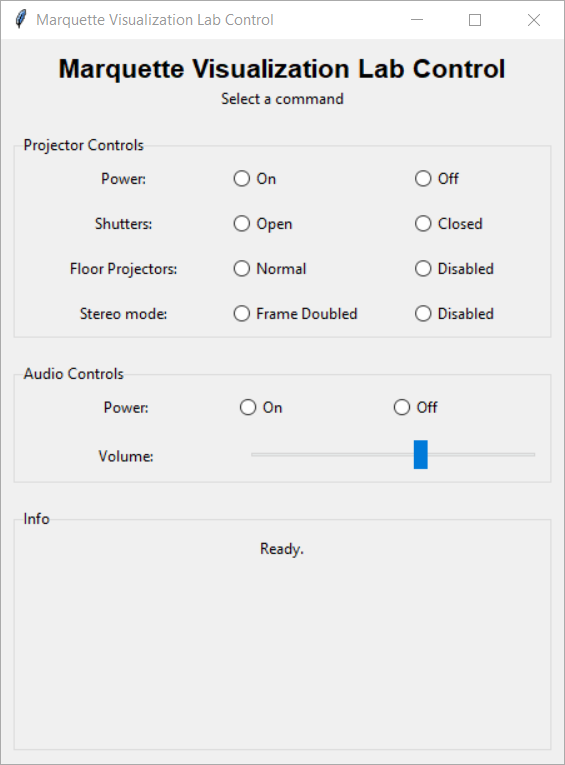
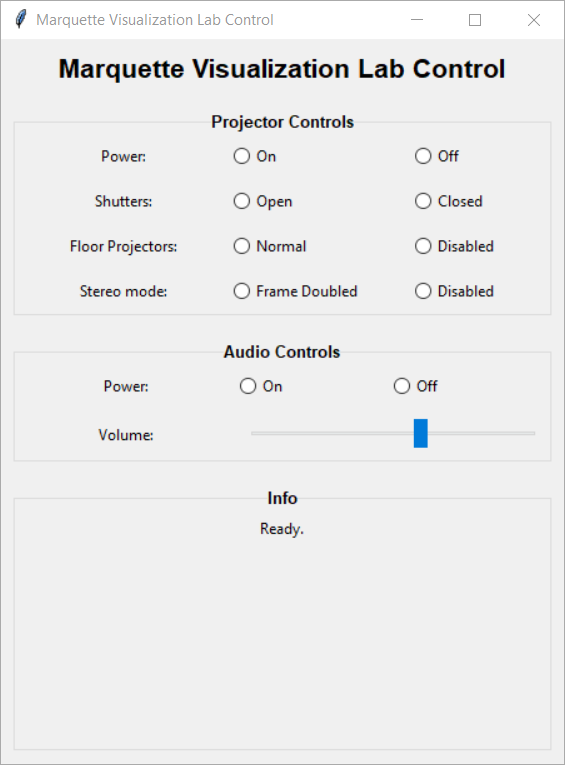
More polish

diff --git a/caveControl.py b/caveControl.py
@@ -2,8 +2,8 @@
 
 import tkinter as tk
 from tkinter import ttk
-from christie import transmit as projectorTransmit
-from marantz import transmit as audioTransmit
+import christie as projectorControl
+import marantz as audioControl
 
 class App(tk.Frame):
     def __init__(self, master=None):
@@ -14,18 +14,18 @@ class App(tk.Frame):
 
         s = ttk.Style()
         s.theme_use('vista')
-        s.configure('Heading.TLabel', font=("TkDefaultFont", 16, "bold"))
+        s.configure('header.TLabel', font=("TkDefaultFont", 16, "bold"))
+        s.configure('TLabelframe.Label', font=("TkDefaultFont", 10, "bold"))
     
     def create_widgets(self):
         #header
         header = tk.Frame(root)
-        ttk.Label(header, text='Marquette Visualization Lab Control', style='Heading.TLabel').pack()
-        ttk.Label(header, text='Select a command').pack()
-        #ttk.Separator(header).pack(expand=True, fill='x', pady=5)
+        ttk.Label(header, text='Marquette Visualization Lab Control', style='header.TLabel').pack()
+        #ttk.Label(header, text='Select a command').pack()        
         header.pack(expand=False, fill='x', pady=10)
 
         #frame 1, projector
-        frame1 = ttk.Labelframe(root, text='Projector Controls')
+        frame1 = ttk.Labelframe(root, text='Projector Controls', labelanchor='n')
         ttk.Label(frame1, text='Power:').grid(row=0, column=0)
         ttk.Radiobutton(frame1, text='On', variable=b_ppower, value="p_on").grid(row=0, column=1, sticky="W")
         ttk.Radiobutton(frame1, text='Off', variable=b_ppower, value="p_off").grid(row=0, column=2, sticky="W")
@@ -52,7 +52,7 @@ class App(tk.Frame):
         frame1.pack(expand=False, fill='x', padx=10, pady=10)
         
         #frame 2, audio
-        frame2 = ttk.Labelframe(root, text='Audio Controls')
+        frame2 = ttk.Labelframe(root, text='Audio Controls', labelanchor='n')
         
         ttk.Label(frame2, text='Power:').grid(row=0, column=0)
         ttk.Radiobutton(frame2, text='On', variable=b_apower, value="a_PWON").grid(row=0, column=1, sticky="W")
@@ -71,8 +71,8 @@ class App(tk.Frame):
         frame2.rowconfigure(1, pad=15)
         frame2.pack(expand=False, fill='x', padx=10, pady=10)
 
-        #footer
-        footer = ttk.Labelframe(text='Info')
+        #footer, info
+        footer = ttk.Labelframe(text='Info', labelanchor='n')
         ttk.Label(footer, textvariable=infoarea).pack(pady=5)
         footer.pack(expand=True, fill='both', padx=10, pady=10)
 
@@ -80,43 +80,61 @@ def onclick(s):
     infoarea.set("Please wait...");
     app.update()
     if s[0] == 'p':
-        infoarea.set(projectorTransmit(s[2:]))
+        infoarea.set(projectorControl.transmit(s[2:]))
         #infoarea.set(s[2:])
     elif s == "a_reset":
-        infoarea.set(audioTransmit(s[2:]))
+        infoarea.set(audioControl.transmit(s[2:]))
         infoarea.set(s[2:])
         b_avolume.set(60)
     elif s[0] == 'a':
-        infoarea.set(audioTransmit(s[2:]))
+        infoarea.set(audioControl.transmit(s[2:]))
         #infoarea.set(s[2:])
         
 def volumeChange(s):
     infoarea.set("Please wait...");
     app.update()
     command = "MV" + str(b_avolume.get() * 10).zfill(3)
-    infoarea.set(audioTransmit(command))
+    infoarea.set(audioControl.transmit(command))
     #infoarea.set(command)
 
 if __name__ == "__main__":
     root = tk.Tk()
     app = App(master=root)
-    
-    #state variables & callbacks
+
+    #TK state variables
+    #projector
+    projectorStatus = projectorControl.startup()
     b_ppower = tk.StringVar()
     b_shutters = tk.StringVar()
+    if projectorStatus["power"]:
+        b_ppower.set("p_on")
+    else:
+        b_ppower.set("p_off")
+    if projectorStatus["shutter"]:
+        b_shutters.set("p_open")
+    else:
+        b_shutters.set("p_close")
+    
     b_3d = tk.StringVar()
     b_floor = tk.StringVar()
+
+    #audio
+    audioStatus = audioControl.startup()
     b_apower = tk.StringVar()
-    b_avolume = tk.IntVar(value=60)
-    b_ppower.trace_add('write', lambda *args: command.set(b_ppower.get()))
-    b_apower.trace_add('write', lambda *args: command.set(b_apower.get()))
-    b_shutters.trace_add('write', lambda *args: command.set(b_shutters.get()))
-    b_3d.trace_add('write', lambda *args: command.set(b_3d.get()))
-    b_floor.trace_add('write', lambda *args: command.set(b_floor.get()))    
-    
+    b_avolume = tk.IntVar(value=40)
+    if audioStatus["power"]:
+        b_apower.set("a_PWON")
+    else:
+        b_apower.set("a_PWSTANDBY")
+        
     infoarea = tk.StringVar(value="Ready.")
-    command = tk.StringVar()
-    command.trace_add('write', lambda *args: onclick(command.get()))
+
+    #callbacks
+    b_ppower.trace_add('write', lambda *args: onclick(b_ppower.get()))
+    b_apower.trace_add('write', lambda *args: onclick(b_apower.get()))
+    b_shutters.trace_add('write', lambda *args: onclick(b_shutters.get()))
+    b_3d.trace_add('write', lambda *args: onclick(b_3d.get()))
+    b_floor.trace_add('write', lambda *args: onclick(b_floor.get()))    
     
     #keyboard shortcuts
     root.bind('<Escape>', lambda x: root.destroy())

diff --git a/marantz.py b/marantz.py
@@ -4,25 +4,52 @@ import telnetlib
 from sys import exit
 from sys import argv
 
+MARANTZ_IP = '172.22.1.50'
+
 def transmit(request):
     #translate friendly commands into the API's language
     if request == "reset":
-        command = "MV600\r".encode('ascii')
+        command = "MV400\r".encode()
     elif request == "ping":
-        command = "PW?\r".encode('ascii')
+        command = "PW?\r".encode()
     else:
-        command = (request.upper()).encode('ascii')
+        command = (request.upper() + "\r").encode()
     
-    statusreport = "Command: " + request + "\n"
+    statusreport = "Transmitting: " + request + "\n"
     tn = telnetlib.Telnet()
     try:
-        tn.open('172.22.1.50', 23, 5)
+        tn.open(MARANTZ_IP, 23, 5)
         tn.write(command)
-        statusreport += tn.read_very_eager().decode('ascii')
     except:
-        statusreport += "error!\n"
+        statusreport += "Unable to open connection.\n"
+    try:
+        statusreport += "Response: " + tn.read_until(b'\r', timeout=5).decode()
+    except:
+        statusreport += "No response.\n"
     tn.close()
     return statusreport
+
+def startup():
+    status = {
+        "power": False,
+        "volume": 400
+    }
+    tn = telnetlib.Telnet()
+    try:
+        tn.open(MARANTZ_IP, 23, 2)
+    except:
+        print("No Connection to audio receiver.")
+        return status
+    #power
+    tn.write("PW?\r".encode())
+    response = tn.read_until(b'\r', timeout=5).decode()
+    if "ON" in response:
+        status["power"] = True
+    
+    #startup volume
+    tn.write("MV400\r".encode())
+    tn.close()   
+    return status    
 
 def printHelp():
     print("Valid Commands:",\

diff --git a/christie.py b/christie.py
@@ -60,6 +60,33 @@ def transmitThread(id, command):
     except socket.timeout:
         statusreport += ip + ": timed out.\n"
     s.close()
+    
+def startup():
+    status = {
+        "power": False,
+        "shutter": False
+    }
+    s = socket.socket(socket.AF_INET, socket.SOCK_STREAM)
+    s.settimeout(2.0)
+    try:
+        s.connect("172.22.1.101", 3002)
+    except:
+        print("No Connection to projectors.")
+        return status 
+    #power
+    s.send("(#PWR?)".encode())
+    response = s.recv(1024).decode()
+    if "ON" in response:
+        status["power"] = True
+
+    #shutters
+    s.send("(#SHU?)".encode())
+    response = s.recv(1024).decode()
+    if "OPEN" in response:
+        status["shutter"] = True
+    
+    s.close
+    return status   
 
 def printHelp():
     print("Valid Commands:",\
